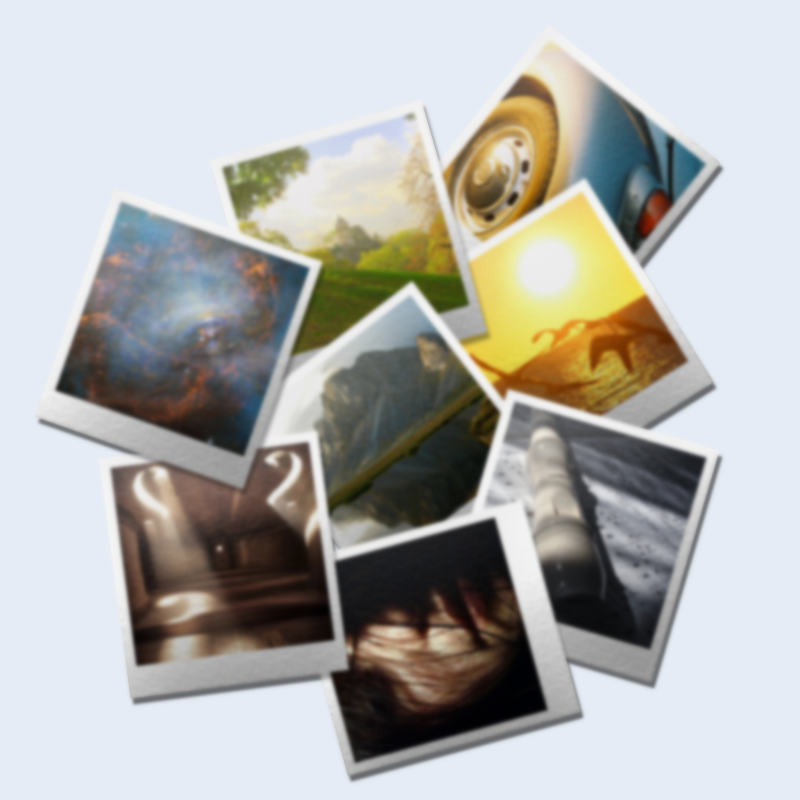
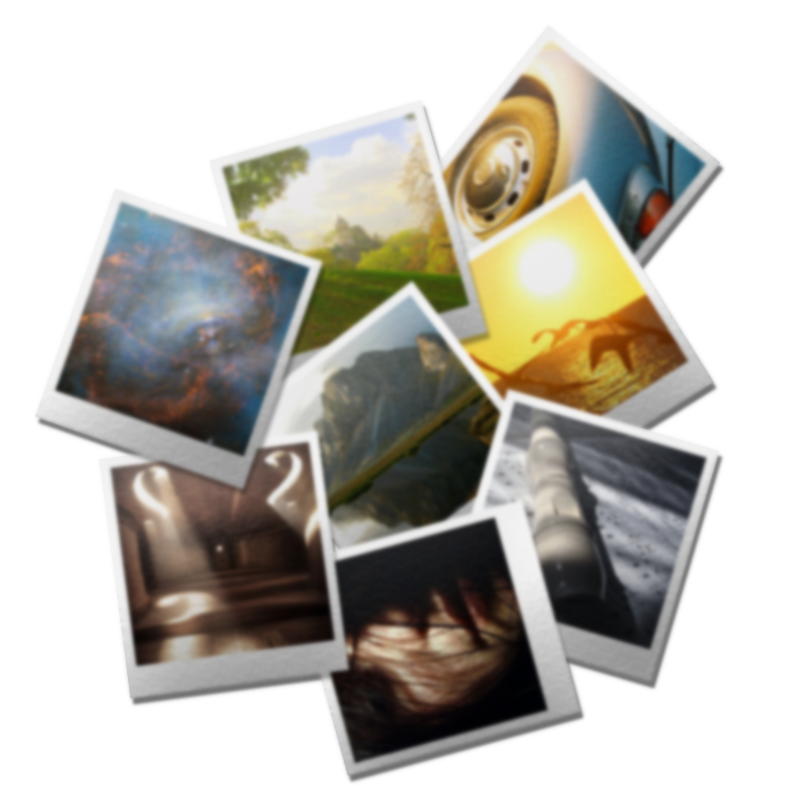
Modificati i colori del sito e di quasi tutti i pulsanti, modificato il div che fa da wrapper a tutte le pagine, modificata l'immagine del login, modificato aspetto di varie pagine tra cui carrello, prodotto e listaprodotti, migliorato il footer aggiungendo anche qualche prima informazione, e altre 

diff --git a/web/css/style.css b/web/css/style.css
@@ -4,8 +4,12 @@
     bottom: 0;
     width: 100%;
     text-align: center;
-    background-color: #a79bb5;
+    background: linear-gradient(to bottom, #8AA7CF, #5D85BD);
     height: 200px;
+    box-shadow: 0px -2px 5px #858585;
+    justify-content: center;
+    padding-top: 20px;
+    font-size: 11px;
 }
 
  .ilogin {
@@ -27,6 +31,12 @@
      text-align: center;
      margin-bottom: 27px;
      font-family: 'Ubuntu', sans-serif;
+ }
+
+ #bottoniCarrello{
+     width: 60%;
+     align-self: center;
+     justify-content: space-between;
  }
 
  .bottonelogin {
@@ -61,6 +71,42 @@
      margin-left: 30%;
  }
 
+ #rimuovi, #svuotaCarrello, button[name="bandisci"], button[name="prodotto"]{
+     padding: 5px;
+     margin: 5px;
+     cursor: pointer;
+     border-radius: 5em;
+     font-family: 'Ubuntu', sans-serif;
+     font-size: 13px;
+     box-shadow: 0 0 20px 1px rgba(0, 0, 0, 0.04);
+     background-color: #EACCD9;
+     border: 0;
+ }
+
+#acquista, #finalizzaAcquisto, #submitProdotto, button[name="promuovi"], #submitEmail, #submitCambiaIndirizzo, #submitCambiaPassword{
+    padding: 5px;
+    margin: 5px;
+    cursor: pointer;
+    border-radius: 5em;
+    font-family: 'Ubuntu', sans-serif;
+    font-size: 13px;
+    box-shadow: 0 0 20px 1px rgba(0, 0, 0, 0.04);
+    background-color: #CCEACF;
+    border: 0;
+}
+
+#aggiungi, button[name="revoca"], button[name="modificaIndirizzo"], button[name="modificaPassword"], button[name="modificaEmail"], button[name="operazione"]{
+    margin: 5px;
+    padding: 5px;
+    cursor: pointer;
+    border-radius: 5em;
+    font-family: 'Ubuntu', sans-serif;
+    font-size: 13px;
+    box-shadow: 0 0 20px 1px rgba(0, 0, 0, 0.04);
+    background-color: #EADECC;
+    border: 0;
+}
+
  .un:focus, .pass:focus {
      border: 2px solid rgba(0, 0, 0, 0.18) !important;
 
@@ -80,7 +126,7 @@
      background-image: url("../sitimg/garpiclogin.png");
      background-repeat: no-repeat;
      background-position: center;
-     background-size: 60%;
+     background-size: 600px 600px;
  }
 
 .logeen {
@@ -91,6 +137,18 @@
     height: 300px;
     border-radius: 1.5em;
     box-shadow: 0px 11px 35px 2px rgba(0, 0, 0, 0.14);
+}
+
+#prodottettag{
+    justify-content: center;
+}
+
+#divProdotto{
+    background-color: white;
+    justify-content: space-between;
+    box-shadow: 10px 10px 5px #aaaaaa;
+    border: none;
+    border-radius: 0em;
 }
 
 .entra {
@@ -154,7 +212,7 @@
 }
 
 body{
-    background-color: #e6ecf5;
+    background-color: #CEDAEB;
     height: 100%;
 }
 
@@ -177,15 +235,16 @@ html {
 
 .sito{
     display: flex;
-    border: 1px solid black;
     justify-content: center;
     padding: 18px;
     margin-left: 20px;
     margin-right: 20px;
     margin-top: 10px;
-    margin-bot: 10px;
-    background-color: bisque;
+    margin-bottom: 20px;
+    background-color: #E6ECF5;
     flex-wrap: wrap;
+    border-radius: 1.5em;
+    box-shadow: 0px 11px 25px 2px rgba(0,0,0,0.14)
 }
 
 #homecontainer{
@@ -195,7 +254,7 @@ html {
     flex-wrap: wrap;
      padding: 1%;
      margin: 1%;
-     background-color: #d6dce4;
+     background-color: #E6ECF5;
      border: 0px;
      border-radius: 1.5em;
      box-shadow: 0px 11px 35px 2px rgba(0, 0, 0, 0.14);
@@ -248,8 +307,6 @@ html {
     background-color:#a96bb8;
 }
 
-
-
  #spazio_registrazione{
      display: flex;
      flex-direction: column;
@@ -269,7 +326,7 @@ html {
      align-items: center;
      width: 70%;
      box-sizing: border-box;
-     background-color: #d6dce4;
+     background-color: #E6ECF5;
      border: 0px;
      border-radius: 1.5em;
      box-shadow: 0px 11px 35px 2px rgba(0, 0, 0, 0.14);

diff --git a/web/css/nav.css b/web/css/nav.css
@@ -20,8 +20,8 @@ header{
     justify-content: space-between;
     align-items: center;
     height: 80px;
-    background-color: #bcb8ce;
-    border-bottom: 1px solid #917898;
+    background-color: #E6ECF5;
+    border-bottom: 1px solid #E4EAF3;
     padding: 0 4%;
     -webkit-box-shadow: 0px -6px 15px #000000;
     box-shadow: 0px -6px 15px #000000;
@@ -52,7 +52,7 @@ header #spazio_ricerca #searchButton:hover{
 header #spazio_ricerca #tags{
     border:none;
     border-bottom: 1px solid #917898;
-    background-color:   #bcb8ce;
+    background-color:   #E6ECF5;
     font-family: 'Raleway', sans-serif;
     height: 40px;
     font-size: 20px;
